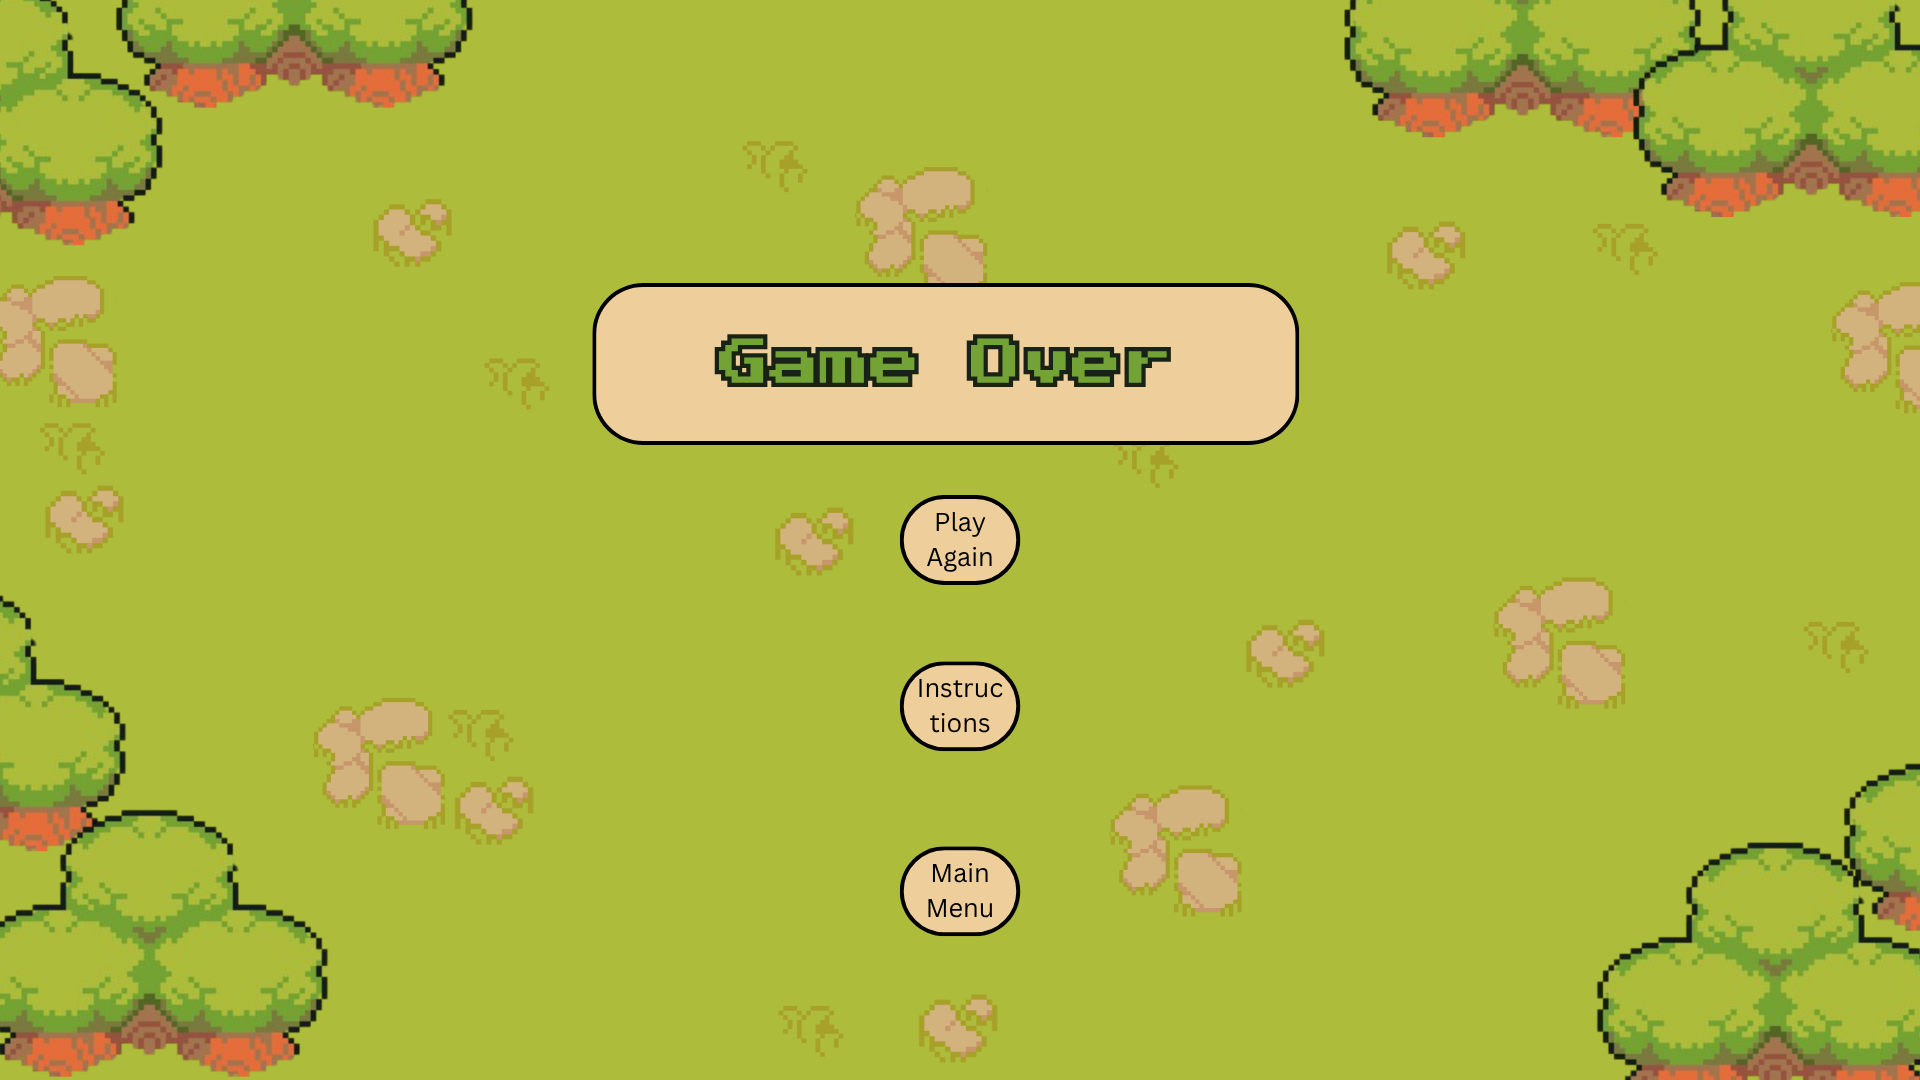
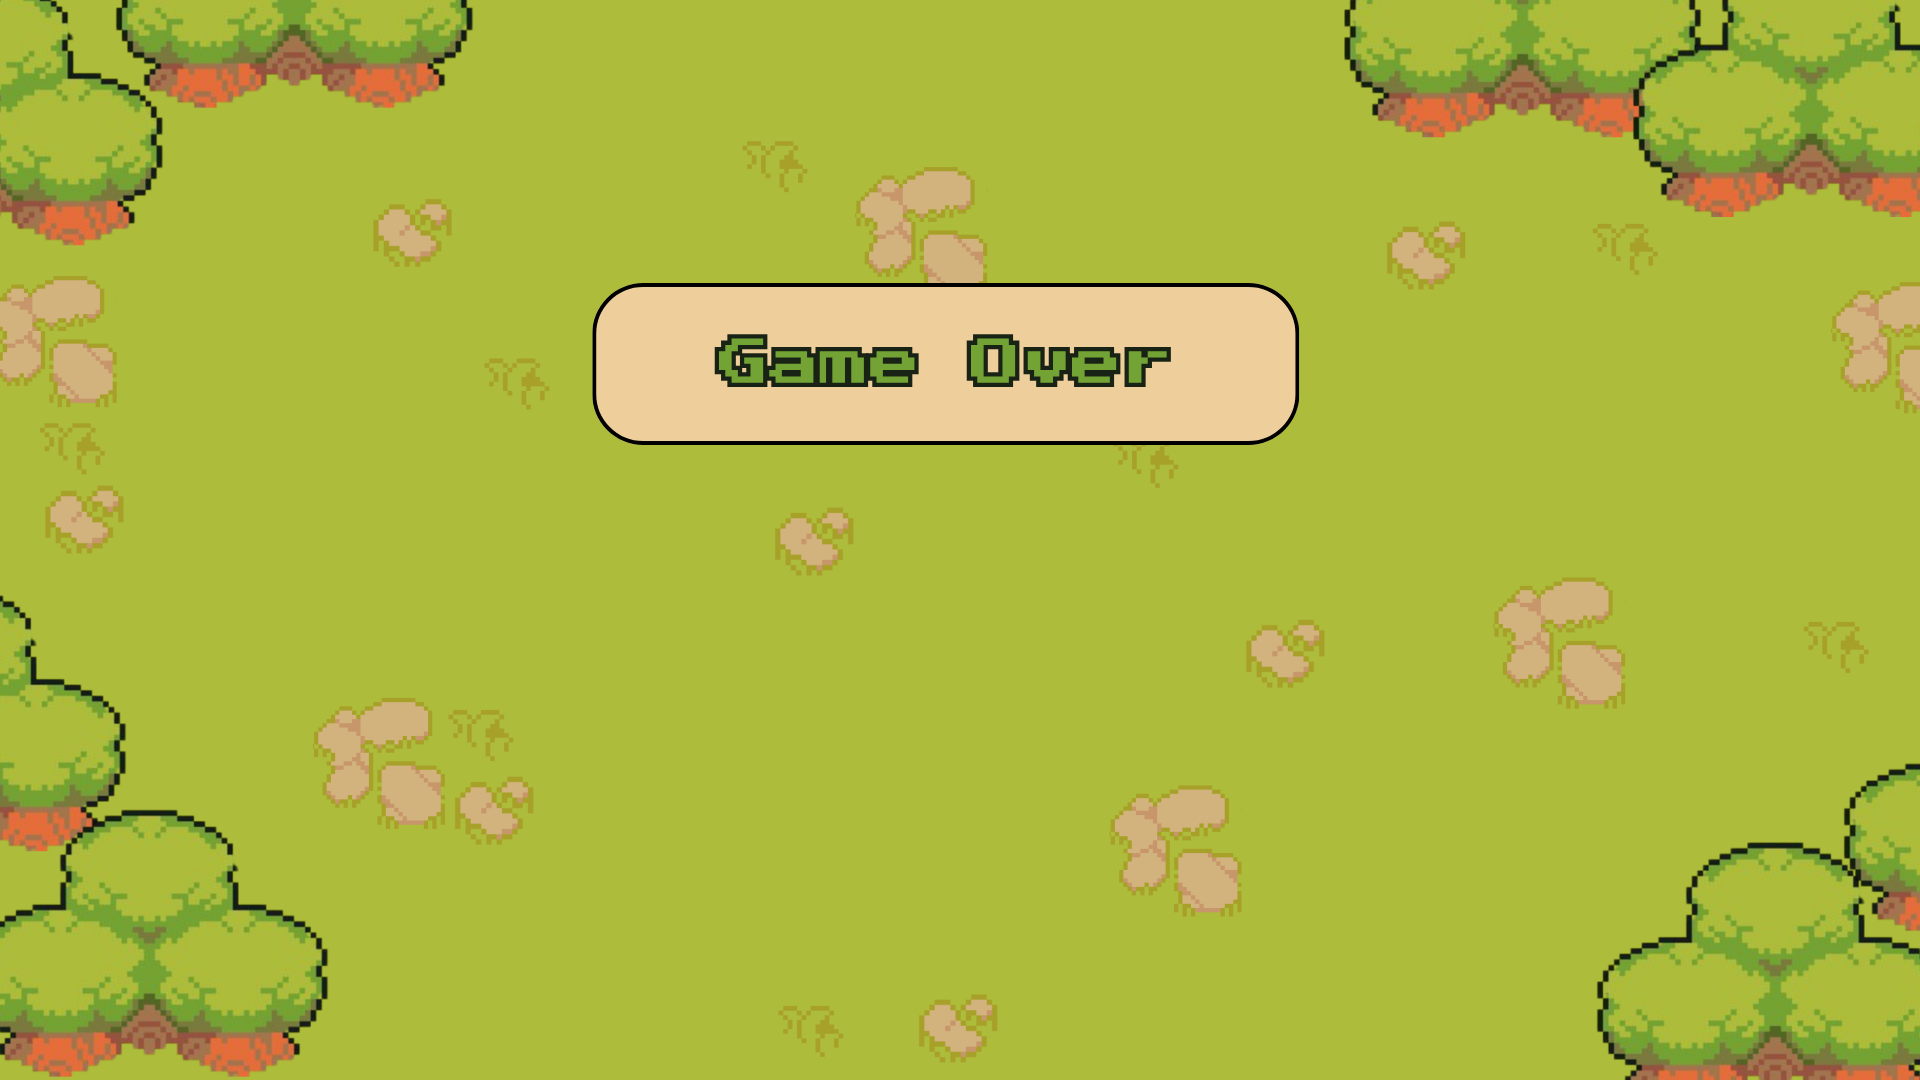
Changed the game over and game paused

Changed region(s): [[0.4688, 0.7639, 0.5312, 0.8861], [0.4688, 0.6111, 0.5312, 0.7028], [0.4688, 0.4583, 0.5312, 0.55]]

diff --git a/Collision Class.js b/Collision Class.js
@@ -1,0 +1,5 @@
+class Collision {
+    constructor(){
+     this.diameter = 100   
+    }
+}
